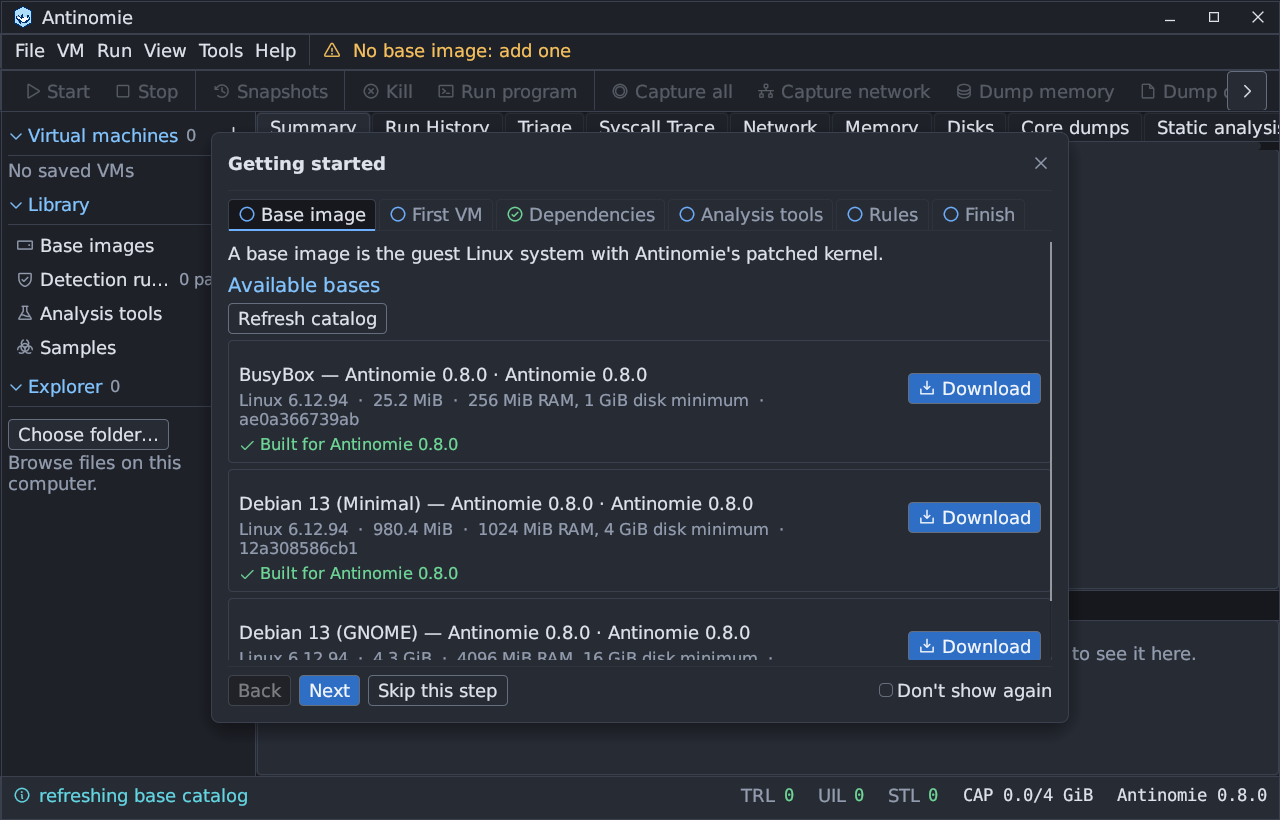
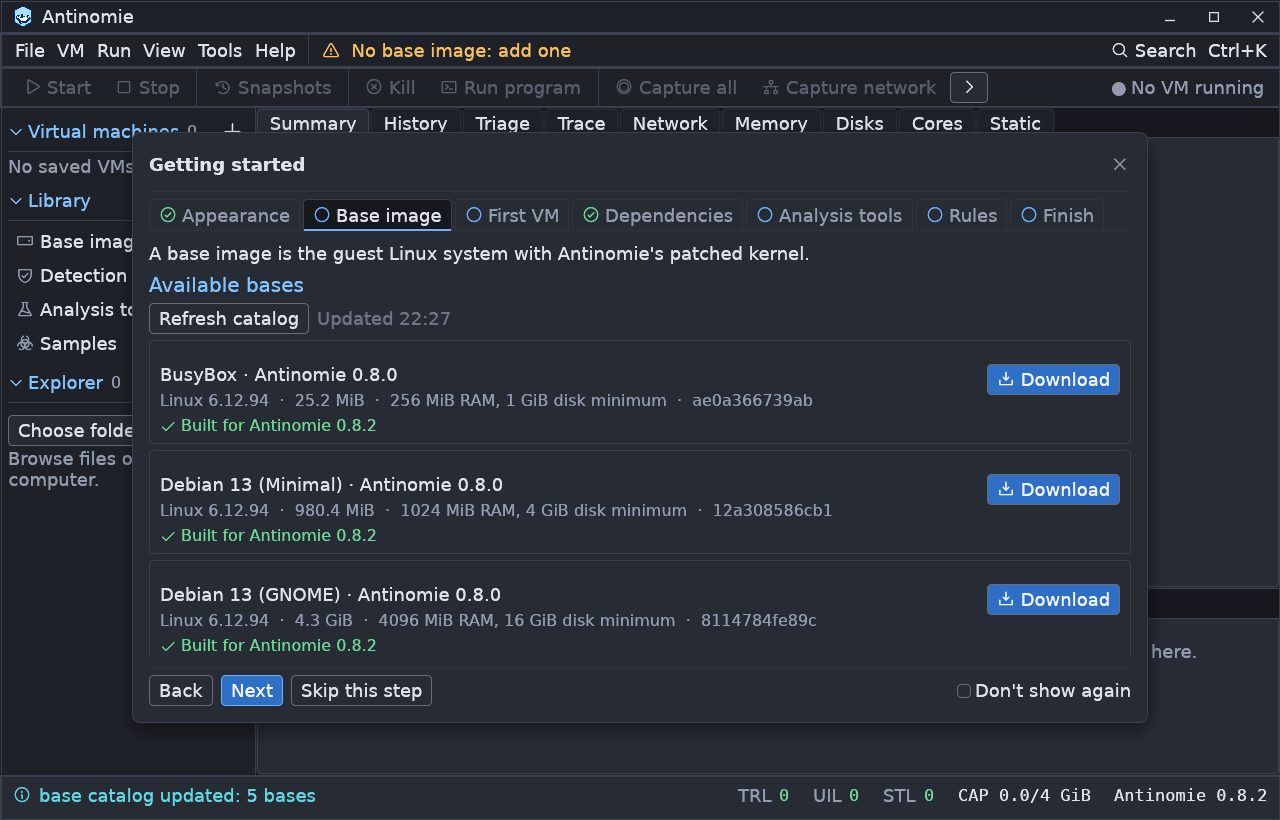
Release 0.8.2

diff --git a/README.md b/README.md
@@ -56,7 +56,7 @@ is the recorded run; no VM is running.</sub>
 > sample can still do.
 
 > [!NOTE]
-> This README describes **0.8.1**, a fix release on top of 0.8.0. Download it
+> This README describes **0.8.2**, a host-only release on the 0.8 line. Download it
 > from [Releases](https://github.com/MoreMorePwn/Antinomie/releases); the
 > [changelog](CHANGELOG.md) lists every change.
 
@@ -169,14 +169,14 @@ and network card into its disk without root; BusyBox VMs do not need it:
 sudo apt install qemu-system-x86 qemu-utils qemu-system-gui curl libsqlite3-0 bubblewrap tshark util-linux libguestfs-tools
 ```
 
-Download `antinomie-0.8.1-linux-x86_64.tar.gz` and `SHA256SUMS` from
+Download `antinomie-0.8.2-linux-x86_64.tar.gz` and `SHA256SUMS` from
 [Releases](https://github.com/MoreMorePwn/Antinomie/releases) into one folder,
 then verify, extract and install for your user (no root):
 
 ```sh
 sha256sum --check SHA256SUMS
-tar -xzf antinomie-0.8.1-linux-x86_64.tar.gz
-cd antinomie-0.8.1
+tar -xzf antinomie-0.8.2-linux-x86_64.tar.gz
+cd antinomie-0.8.2
 ./install.sh
 antinomie --check-dependencies
 antinomie
@@ -202,7 +202,7 @@ antinomie
 Install the [host build prerequisites](src/antinomie/monitor/README.md#build-and-run), then:
 
 ```sh
-git clone --branch v0.8.1 https://github.com/MoreMorePwn/Antinomie.git
+git clone --branch v0.8.2 https://github.com/MoreMorePwn/Antinomie.git
 cd Antinomie
 ./run.sh
 ```
@@ -239,7 +239,7 @@ download anything, **you build a full pack** yourself:
 4. Inspect the live views, then reopen the saved run from **Run History**.
 
 <div align="center">
-<img src="assets/screenshots/getting-started.png" alt="Antinomie 0.8.0's Getting started window on a fresh install, listing the BusyBox, Debian 13 Minimal and Debian 13 GNOME bases from the catalog" width="640">
+<img src="assets/screenshots/getting-started.png" alt="Antinomie 0.8.2's Getting started window on a fresh install, on the Base image step, listing the BusyBox, Debian 13 Minimal and Debian 13 GNOME bases from the catalog" width="640">
 <br>
 <sub>First launch on an empty data directory: the Getting started guide.</sub>
 </div>
@@ -374,6 +374,36 @@ Import the output folder with **Add base → Import base…**.
 The app checks dependencies at startup (**Tools → App dependencies**). From a
 terminal: `antinomie --check-dependencies`. The
 [full dependency list](docs/usage.md#dependencies-and-analysis-tools) names every tool.
+
+## What's new in 0.8.2
+
+0.8.2 runs the same revision-20 bases as 0.8.0 and 0.8.1; the
+[changelog](CHANGELOG.md) has every change, including the fixes.
+
+* **Find your way:** a command palette (**Ctrl+K**) that opens every window and
+  action, keyboard shortcuts for the work-area tabs and common actions (press
+  **?** for the list), a **Jobs** window with progress and Stop for long work, a
+  notification when a run finishes, run states in one colour scheme, an
+  **Appearance** step in Getting started and a **time zone** setting that every
+  view and report follows.
+* **Memory dumps and process cores:** a **Content** view (hex and text, go to
+  offset or address) with on-demand **Strings** and **Regex** search, and core
+  mappings named like `/proc/PID/maps` (`[stack]`, `[heap]`, `[vdso]`).
+* **Syscall Trace:** captured record arrays (directory entries, poll fds, control
+  messages, BPF programs and more) as expandable trees with short summaries in the
+  table, and **Decode all captured** for records past the preview.
+* **Samples and indicators:** an **IOCs** tab in the sample window with every
+  indicator across a sample's runs, filters and CSV, JSON, MISP and STIX 2.1
+  export; the Triage IOC tab shows how many indicators matched a dataset.
+* **ATT&CK:** techniques coloured by tactic and an expandable list that leads to
+  the rules and evidence behind each one.
+* **Recordings:** when the recording quota is nearly full, Antinomie keeps the
+  calls the suspicious-activity rules use and counts the rest instead of stopping;
+  a run waits for a systemd guest to finish booting before it starts; reports say
+  why a process ended on a signal.
+* **Network and VMs:** offline IP geolocation for TShark (an optional DB-IP Lite
+  download or your own MaxMind GeoLite2 folder), and a snapshot diagram on the VM
+  Summary.
 
 ## What's new in 0.8.1
 

diff --git a/CHANGELOG.md b/CHANGELOG.md
@@ -4,7 +4,16 @@ All notable changes to Antinomie. Versions follow semantic versioning; see
 [CONTRIBUTING.md](CONTRIBUTING.md#12-versioning). Each version says which bases
 it runs.
 
-## 0.8.2 — 2026-MM-DD
+## 0.8.2 — 2026-11-03
+
+Antinomie 0.8.2 is a host-only release on the 0.8 line; it runs the same
+revision-20 bases as 0.8.0 and 0.8.1. It adds a command palette, keyboard
+shortcuts and a Jobs window; a Content view with Strings and Regex search for
+memory dumps and process cores; record arrays as trees in the Syscall Trace; an
+IOCs tab in the sample window; ATT&CK coloured by tactic; reduced recording when
+the quota is nearly full; a wait for the guest to finish booting before a run;
+offline IP geolocation for TShark; and a time zone setting. The interface moved to
+egui 0.36, and saved settings now survive a restart again. Details follow.
 
 ### Host
 

diff --git a/docs/security.md b/docs/security.md
@@ -2,7 +2,7 @@
 
 [← Back to the overview](../README.md)
 
-This page describes 0.8.1: what Antinomie isolates, what it does not, and how to run it safely.
+This page describes 0.8.2: what Antinomie isolates, what it does not, and how to run it safely.
 To report a vulnerability in Antinomie itself, see
 [SECURITY.md](../SECURITY.md).
 
